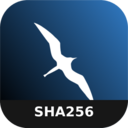
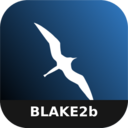
Frigate (BLAKE2b) Companion: the BLAKE2b twin of frigate-sha256-companion

Changed region(s): [[0.2188, 0.8125, 0.7812, 0.9375]]

diff --git a/startos/chain.ts b/startos/chain.ts
@@ -4,17 +4,17 @@
  * identical, and tools/sync-packages.sh in the frigate-companions project keeps them so.
  */
 export const chain = {
-  id: 'frigate-sha256-companion',
-  title: 'Frigate Electrum Server (SHA256) Companion',
+  id: 'frigate-blake2b-companion',
+  title: 'Frigate Electrum Server (BLAKE2b) Companion',
   /** The chain named in the title and on the icon's band. */
-  band: 'SHA256',
-  packageRepo: 'https://github.com/paulscode/frigate-sha256-companion-startos',
+  band: 'BLAKE2b',
+  packageRepo: 'https://github.com/paulscode/frigate-blake2b-companion-startos',
   /** The node this app is named for. Preferred at install when it is installed. */
-  pairedNode: 'knots-prerdts',
+  pairedNode: 'knots-blake2b',
   /**
    * Preferred external ports, SSL then plaintext. Distinct from the official Frigate's 50002/50001
    * and from the other companion's, so a server running several gets predictable ports.
    */
-  sslPort: 50022,
-  tcpPort: 50021,
+  sslPort: 50032,
+  tcpPort: 50031,
 } as const

diff --git a/startos/i18n/dictionaries/default.ts b/startos/i18n/dictionaries/default.ts
@@ -44,7 +44,7 @@ const dict = {
   Indexer: 40,
   '${indexer} follows the same chain as ${node}': 41,
   '${indexer} follows a different chain from ${node}, so wallets are refused. Point ${indexer} at ${node} (its Select Node), or select another indexer. ${detail}': 42,
-  'Checking that ${indexer} follows the same chain as ${node}. An indexer opens its Electrum port only once it has caught up with its node.': 43,
+  'Frigate checks that ${indexer} follows the same chain as ${node} once its own index has caught up. An indexer opens its Electrum port only once it has caught up with its node.': 43,
   'The official Bitcoin service, whichever flavor is installed: Knots or Core, on the SHA256 chain, or a BLAKE2b build that took its place.': 44,
   'A second node on the SHA256 chain, installed alongside your main Bitcoin service, pruned by default.': 45,
   'A node on the BLAKE2b chain, whose blocks use a different proof of work and a longer header, pruned by default.': 46,

diff --git a/startos/main.ts b/startos/main.ts
@@ -288,7 +288,7 @@ exec /usr/local/bin/docker-entrypoint.sh`,
           return {
             result: 'loading',
             message: i18n(
-              'Checking that ${indexer} follows the same chain as ${node}. An indexer opens its Electrum port only once it has caught up with its node.',
+              'Frigate checks that ${indexer} follows the same chain as ${node} once its own index has caught up. An indexer opens its Electrum port only once it has caught up with its node.',
               { indexer: indexer.title, node: node.title },
             ),
           }

diff --git a/startos/manifest/index.ts b/startos/manifest/index.ts
@@ -5,7 +5,7 @@ import { long, short } from './i18n'
 export const manifest = setupManifest({
   // Written out rather than taken from chain.ts, because the SDK makefile reads it from this line
   // to name the s9pk. The check below keeps the two equal.
-  id: 'frigate-sha256-companion',
+  id: 'frigate-blake2b-companion',
   title: chain.title,
   license: 'Apache-2.0',
   packageRepo: chain.packageRepo,

diff --git a/README.md b/README.md
@@ -1,8 +1,8 @@
 <p align="center">
-  <img src="icon.png" alt="Frigate (SHA256) Companion logo" width="21%">
+  <img src="icon.png" alt="Frigate (BLAKE2b) Companion logo" width="21%">
 </p>
 
-# Frigate Electrum Server (SHA256) Companion on StartOS
+# Frigate Electrum Server (BLAKE2b) Companion on StartOS
 
 > Everything not listed in this document should behave the same as upstream Frigate. If a
 > feature, setting, or behavior is not mentioned here, the upstream documentation is accurate and
@@ -17,14 +17,14 @@ This companion runs **beside** the official Frigate package rather than in its p
 from it in three ways: it works with a **pruned** node and never needs `txindex`; it serves the
 **BLAKE2b** chain as well as the SHA256 one (it follows whichever node is selected); and it uses
 **Electrs Pruned** or **Fulcrum Pruned** as its Electrum backend. It is one of two companions,
-the other being Frigate Electrum Server (BLAKE2b) Companion (`frigate-blake2b-companion`); the two
+the other being Frigate Electrum Server (SHA256) Companion (`frigate-sha256-companion`); the two
 packages are identical except for their id, title, icon and the node they prefer at install, so a
 server can run one per chain.
 
 - **Upstream repo:** <https://github.com/sparrowwallet/frigate>
-- **Wrapper repo:** <https://github.com/paulscode/frigate-sha256-companion-startos>
+- **Wrapper repo:** <https://github.com/paulscode/frigate-blake2b-companion-startos>
 - **Parent wrapper repo:** <https://github.com/Start9-Community/frigate-startos>
-- **StartOS service ID:** `frigate-sha256-companion`
+- **StartOS service ID:** `frigate-blake2b-companion`
 
 ---
 
@@ -119,14 +119,14 @@ differ.
 
 | Interface | Port | Protocol | Purpose |
 |---|---|---|---|
-| Electrum (SSL) (`electrum`) | 50001 internal; preferred external 50022 (SSL), 50021 (plaintext, bridge only) | Electrum over TLS | wallets |
+| Electrum (SSL) (`electrum`) | 50001 internal; preferred external 50032 (SSL), 50031 (plaintext, bridge only) | Electrum over TLS | wallets |
 
-Preferred external ports differ from the official Frigate's (50002/50001) and from the BLAKE2b
-companion's (50032/50031). StartOS assigns the actual ports per server; never quote a literal one.
+Preferred external ports differ from the official Frigate's (50002/50001) and from the SHA256
+companion's (50022/50021). StartOS assigns the actual ports per server; never quote a literal one.
 
 ## Installation and First-Run Flow
 
-1. On install the package chooses the node this app is named for (`knots-prerdts`) if installed,
+1. On install the package chooses the node this app is named for (`knots-blake2b`) if installed,
    else the only supported node installed; and the only supported indexer installed. Otherwise
    it raises a critical **Select Node** and/or **Select Indexer** task, which keeps Frigate
    stopped until answered.
@@ -178,7 +178,7 @@ The volume is backed up except `db/` (the index) and `frigate.log`. A restore re
 ## Quick Reference for AI Consumers
 
 ```yaml
-package_id: frigate-sha256-companion
+package_id: frigate-blake2b-companion
 image: built from Dockerfile (Frigate 1.6.1 + patches/ + paulscode/drongo blake2b) over ghcr.io/remcoros/frigate-docker:1.6.1
 architectures: [x86_64, aarch64]
 volumes:

diff --git a/instructions.md b/instructions.md
@@ -1,4 +1,4 @@
-# Frigate (SHA256) Companion
+# Frigate (BLAKE2b) Companion
 
 ## Documentation
 
@@ -10,7 +10,7 @@
 
 An Electrum server that scans the blockchain for Silent Payments on your wallet's behalf, without learning which payments are yours. Point a Silent Payments wallet at its Electrum address and it can find its incoming payments without downloading the chain itself.
 
-This companion runs beside the official Frigate, works with a **pruned** node, and needs no `txindex`. It follows whichever Bitcoin node you select, on the SHA256 chain or the BLAKE2b chain. It is named for the SHA256 chain, the pairing it is meant for; its twin, Frigate (BLAKE2b) Companion, lets one server run Frigate for each chain.
+This companion runs beside the official Frigate, works with a **pruned** node, and needs no `txindex`. It follows whichever Bitcoin node you select, on the SHA256 chain or the BLAKE2b chain. It is named for the BLAKE2b chain, the pairing it is meant for; its twin, Frigate (SHA256) Companion, lets one server run Frigate for each chain.
 
 Frigate answers Silent Payments queries itself and passes everything else, ordinary address lookups included, to an **indexer**: Electrs Pruned or Fulcrum Pruned (Electrs or Fulcrum also work with an archival node).
 

diff --git a/AGENTS.md b/AGENTS.md
@@ -1,11 +1,13 @@
 # AGENTS.md
 
-A StartOS service package: Frigate Electrum Server (SHA256) Companion, `frigate-sha256-companion`.
+A StartOS service package: one of the two Frigate Electrum Server companions, `frigate-sha256-companion`
+and `frigate-blake2b-companion` (see `startos/chain.ts` for which this is).
 Built locally with the workspace's `release.sh`, never in CI. SDK 3.1.1.
 
-- **Two packages, one codebase.** This package and `frigate-blake2b-companion-startos` are identical
-  except `startos/chain.ts`, the icons, `README.md`, `instructions.md` and the package name. Edit
-  here, then run `/mnt/Black/frigate-companions/tools/sync-packages.sh`.
+- **Two packages, one codebase.** `frigate-sha256-companion-startos` and
+  `frigate-blake2b-companion-startos` are identical except `startos/chain.ts`, the manifest id, the
+  icons, `README.md`, `instructions.md` and the package name. Edit the SHA256 one, then run
+  `/mnt/Black/frigate-companions/tools/sync-packages.sh`.
 - **Frigate's changes are `patches/`**, generated from a working tree in the frigate-companions
   project (`work/frigate-src`); never edit a patch file by hand. See UPDATING.md.
 - **No autoconfig task on the node, ever.** Pruned support is the point of this package.
